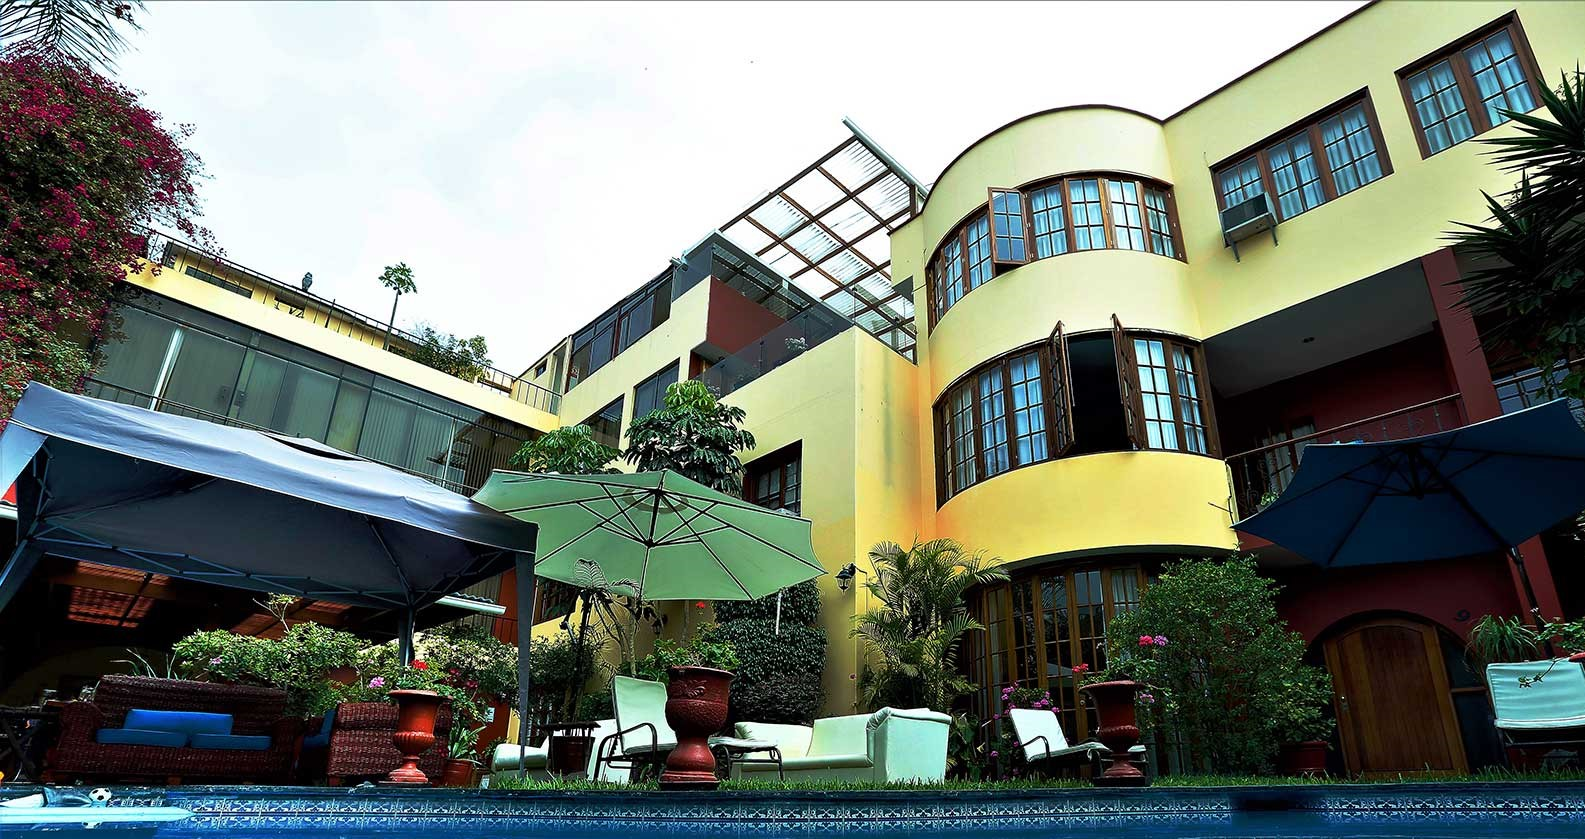
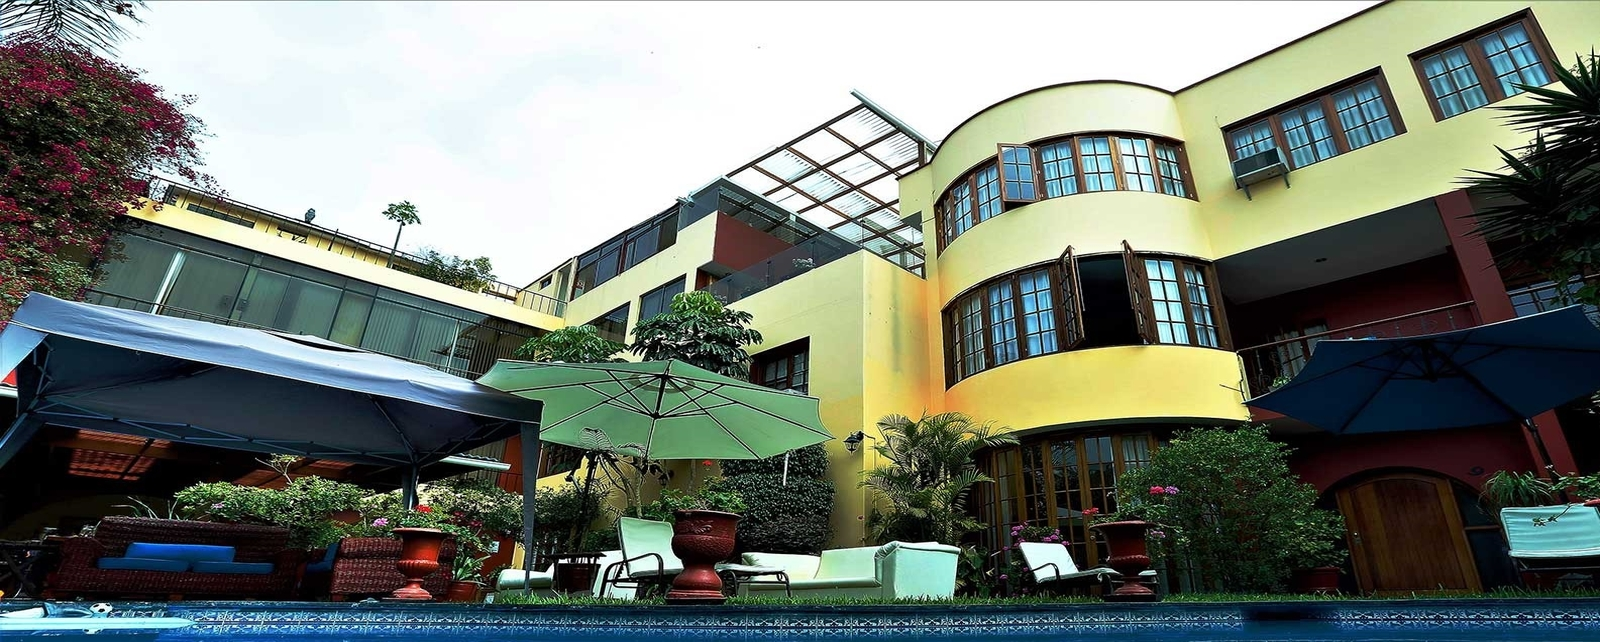
Changes that should make the website look better

diff --git a/PeruStarApplication/wwwroot/css/stylish-portfolio.css b/PeruStarApplication/wwwroot/css/stylish-portfolio.css
@@ -155,7 +155,7 @@ hr.small {
     display: block;
     height: auto;
     max-width: 100%;
-    max-height: 690px;
+    max-height: 640px;
     min-height: 360px;
     line-height: 1;
     width: 100%;
@@ -281,19 +281,21 @@ hr.small {
 }
 
 
-/* Map */
-
-.map {
-  height: 500px;
+/* Contact */
+.contact {
+  height: 600px;
+  min-height: 300px;
+  padding-top:70px;
+  background-color:#199EB8;
 }
 
 @media(max-width:768px) {
-  .map {
+  .contact {
     height: 75%;
   }
 }
 
-.map iframe {
+.contact iframe {
   pointer-events: none;
 }
 
@@ -301,7 +303,7 @@ hr.small {
 /* Footer */
 
 footer {
-  padding: 100px 0;
+  padding: 20px;
 }
 
 #to-top {
@@ -436,4 +438,32 @@ footer {
 }
 .col-md-push-6 {
     left: 50%;
+}
+
+.about {
+    background: #fff;
+    padding: 80px 0;
+    background-color: #199EB8;
+    background-size: cover;
+    padding: 80px 0 60px 0;
+}
+
+.about-content img {
+    margin: auto;
+    display: block;
+}
+
+.about .about-title {
+    color: #333;
+    font-weight: 700;
+    font-size: 28px;
+}
+
+.about-content .about-text {
+    line-height: 26px;
+    text-align: justify;
+}
+
+.about .about-text:last-child {
+    margin-bottom: 0;
 }

diff --git a/PeruStarApplication/wwwroot/js/stylish-portfolio.js b/PeruStarApplication/wwwroot/js/stylish-portfolio.js
@@ -20,7 +20,7 @@
       target = target.length ? target : $('[name=' + this.hash.slice(1) + ']');
       if (target.length) {
         $('html, body').animate({
-          scrollTop: target.offset().top
+          scrollTop: target.offset().top - 37
         }, 1000, "easeInOutExpo");
         return false;
       }
